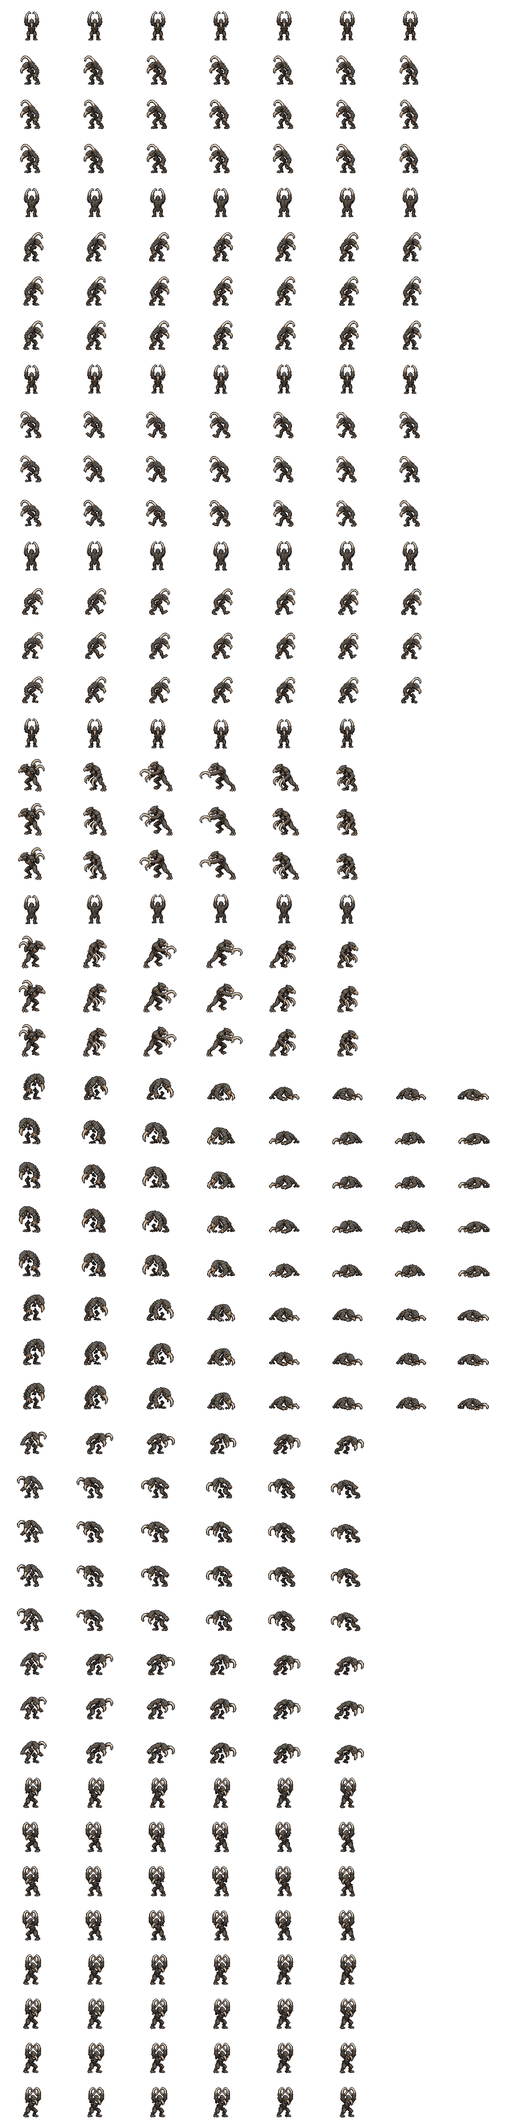
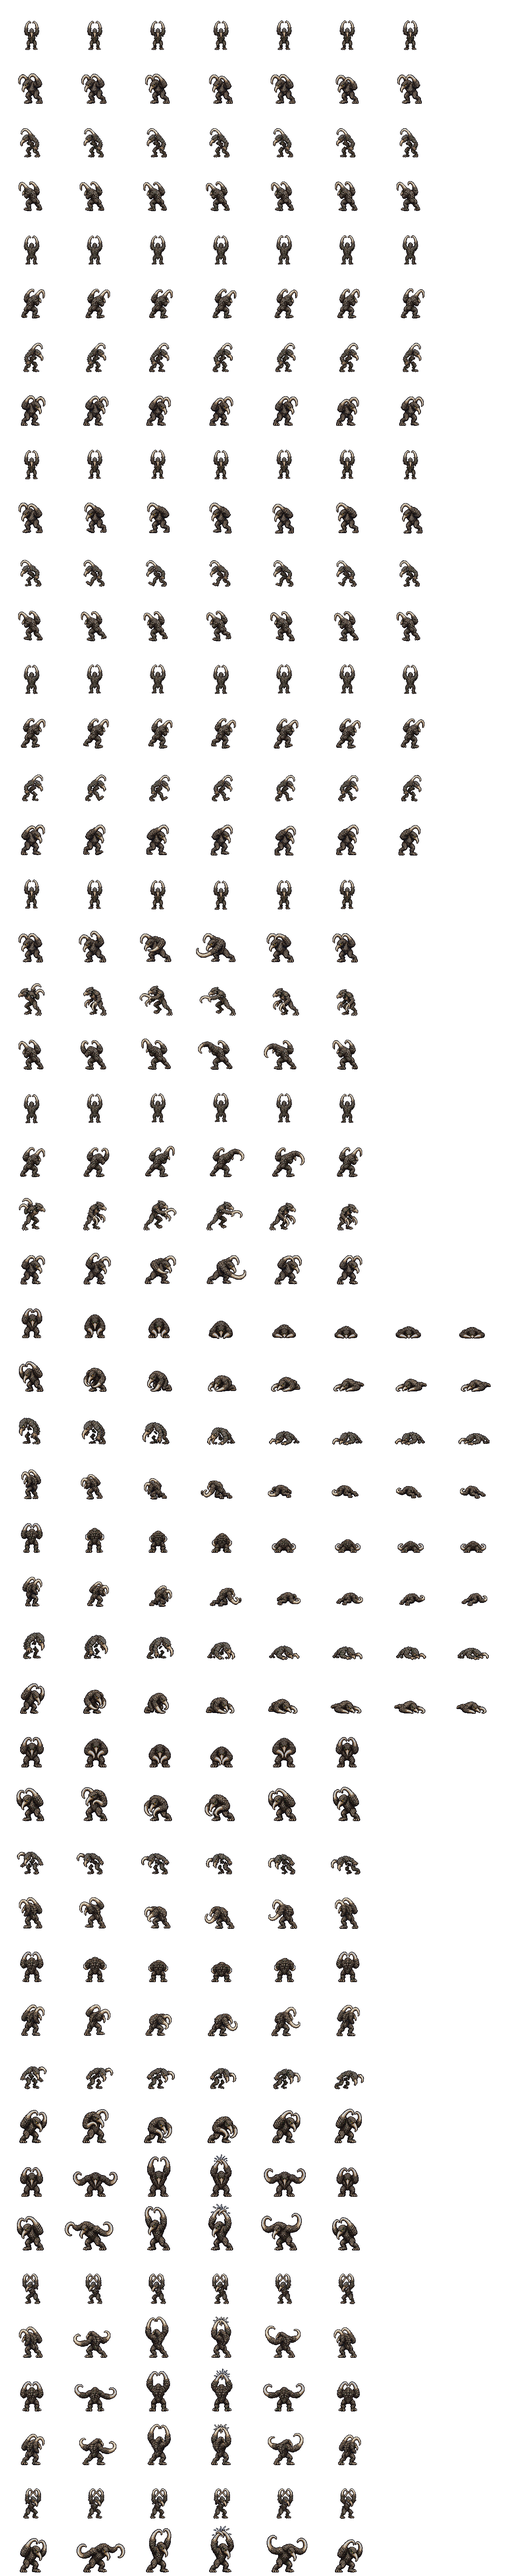
The clacker in all eight facings: the art desk's ART-42 cut onto clacker_p2 (SE and NE every row, SW and NW mirrored; S and N their clack, hurt and death)
tools/clacker-sheet.py ART42 through tools/artdesk.py (which now takes sheetrows' cut lines a page at a time): K by height
against the sheet's 74 (2.38 to 2.89), toned per channel to Griz's sheet; NE Death 4's hook tip cut from Death 5's flank (CUT42).
The cell 136 tall since (AY 126, was 112/102): the raised hooks and the clack's spark reach 118 px up; every kept frame anchor for
anchor as before. Idle frame 1 stands 74 in every facing. Its _src from the main checkout in a worktree.
On Griz's "spin up an one-at-a-time art cutter that goes until we're out" (10-22, to the lanes desk).

diff --git a/deep16/data/sprites.js b/deep16/data/sprites.js
@@ -2303,69 +2303,69 @@
 "source": "generated by Griz with Grok (2026-09-27; the side rows, the Front and Back stills) and the art desk (2026-10-17, ART-43: SE and NE every row, the fall from the front and behind), regraded to wet stone and cleaned by tools/chuul-sheet.py"
 },
 "clacker_p2": {
-"image": "art/clacker_p2.png?v=5b7af6c042",
+"image": "art/clacker_p2.png?v=b9f8a95519",
 "fw": 160,
-"fh": 112,
+"fh": 136,
 "ax": 80,
-"ay": 102,
+"ay": 126,
 "top": 74,
 "anims": {
 "idle": {
 "y": 0,
 "fw": 160,
-"fh": 112,
+"fh": 136,
 "ax": 80,
-"ay": 102,
+"ay": 126,
 "frames": 7,
 "fps": 6
 },
 "walk": {
-"y": 896,
+"y": 1088,
 "fw": 160,
-"fh": 112,
+"fh": 136,
 "ax": 80,
-"ay": 102,
+"ay": 126,
 "frames": 7,
 "fps": 9
 },
 "attack": {
-"y": 1792,
+"y": 2176,
 "fw": 160,
-"fh": 112,
+"fh": 136,
 "ax": 80,
-"ay": 102,
+"ay": 126,
 "frames": 6,
 "fps": 11
 },
 "hurt": {
-"y": 2688,
+"y": 3264,
 "fw": 160,
-"fh": 112,
+"fh": 136,
 "ax": 80,
-"ay": 102,
+"ay": 126,
 "frames": 8,
 "fps": 8
 },
 "flinch": {
-"y": 3584,
+"y": 4352,
 "fw": 160,
-"fh": 112,
+"fh": 136,
 "ax": 80,
-"ay": 102,
+"ay": 126,
 "frames": 6,
 "fps": 12
 },
 "clack": {
-"y": 4480,
+"y": 5440,
 "fw": 160,
-"fh": 112,
+"fh": 136,
 "ax": 80,
-"ay": 102,
+"ay": 126,
 "frames": 6,
 "fps": 10
 }
 },
-"source": "generated by Griz (2026-10-01, two Grok sheets), cut and snapped by tools/clacker-sheet.py"
+"source": "generated by Griz (2026-10-01, two Grok sheets), cut and snapped by tools/clacker-sheet.py; SE and NE every row and S and N their clack, hurt and death drawn by the art desk (ART-42, 10-22)"
 },
 "cloaker_p1": {
 "image": "art/cloaker_p1.png?v=029cae914e",

diff --git a/deep16/index.html b/deep16/index.html
@@ -77,7 +77,7 @@
 <script src="js/art.js?v=e1ce4cf012"></script>
 <script src="data/cavern.js?v=647c1a184a"></script>
 <script src="data/maps.js?v=971b4fe9e6"></script>
-<script src="data/sprites.js?v=4e21a0120f"></script>
+<script src="data/sprites.js?v=3fffd5eb2c"></script>
 <script src="js/sprites.js?v=132505c283"></script>
 <script src="js/save.js?v=1191d6f29a"></script>
 <script src="data/spells.js?v=b819b6e987"></script>

diff --git a/tools/clacker-sheet.py b/tools/clacker-sheet.py
@@ -33,9 +33,35 @@ import importlib.util
 spec = importlib.util.spec_from_file_location('pix', os.path.join(ROOT, 'tools', 'pixelate.py'))
 pix = importlib.util.module_from_spec(spec); spec.loader.exec_module(pix)
 
-SRC = os.path.join(ROOT, 'deep16', '_src')
+spec = importlib.util.spec_from_file_location('artdesk', os.path.join(ROOT, 'tools', 'artdesk.py'))
+AD = importlib.util.module_from_spec(spec); spec.loader.exec_module(AD)
+
+SRC = AD.src_dir(ROOT)                                  # (his sheets live in the main checkout: a worktree reads them there)
 NAME = 'clacker_p2'
-FW, FH, AX, AY = 160, 112, 80, 102
+
+# The five views (10-22, the monster cutter seat's second run): the art desk's ART-42 in deep16/_src/clacker/ART-42/ (sorted out of Fresh
+# by _src/art-desk/sort-delivery.py; its papers in _src/art-desk/received-2026-10-22-ART-42-clacker-FINAL-SHEETS/): HEAD 1 SE and HEAD 2 NE
+# on two pages each (Idle 7, Walk 7, Hook 6; Clack 6, Hurt 6, Death 8), HEAD 3 S and HEAD 5 N their Clack, Hurt and Death. Cut, scaled and
+# placed by tools/artdesk.py (by height: a diagonal's Idle between the side's and the turnaround still's; a later page by its Death 1,
+# standing, against its Idle 1; S's and N's Death 1 against the stills), toned to Griz's sheet. SE and SW, NE and NW take every row; S and N
+# their clack, flinch and hurt (the stills keep their idle, walk bob and hook dip). Hurt -> flinch (living), Death -> hurt, as his rows.
+ART42 = {
+  'H1P1': dict(file='ART-42_HEAD-1_PAGE-1.png', W=1536, text=[(15, 173, 180, 250), (15, 474, 180, 550), (15, 779, 180, 855)],
+               rows=[('idle', (0, 0, 1536, 343), (317, 343), 7), ('walk', (0, 344, 1536, 640), (614, 640), 7), ('attack', (0, 641, 1536, 939), (913, 939), 6)]),
+  'H1P2': dict(file='ART-42_HEAD-1_PAGE-2.png', W=1536, text=[(22, 196, 190, 281), (19, 505, 186, 589), (12, 790, 166, 873)],
+               rows=[('clack', (0, 0, 1536, 379), (351, 379), 6), ('flinch', (0, 380, 1536, 679), (651, 679), 6), ('hurt', (0, 680, 1536, 954), (926, 954), 8)]),
+  'H2P1': dict(file='ART-42_HEAD-2_PAGE-1.png', W=1536, text=[(7, 167, 134, 239), (7, 475, 134, 546), (7, 771, 134, 842)],
+               rows=[('idle', (0, 0, 1536, 324), (300, 324), 7), ('walk', (0, 325, 1536, 641), (617, 641), 7), ('attack', (0, 642, 1536, 945), (921, 945), 6)]),
+  'H2P2': dict(file='ART-42_HEAD-2_PAGE-2.png', W=1536, text=[(15, 234, 179, 310), (15, 520, 179, 596), (14, 819, 164, 894)],
+               rows=[('clack', (0, 0, 1536, 377), (351, 377), 6), ('flinch', (0, 378, 1536, 668), (642, 668), 6), ('hurt', (0, 669, 1536, 959), (933, 959), 8)]),
+  'H3P1': dict(file='ART-42_HEAD-3_PAGE-1.png', W=1536, text=[(20, 193, 190, 283), (19, 508, 187, 594), (8, 784, 168, 866)],
+               rows=[('clack', (0, 0, 1536, 383), (354, 383), 6), ('flinch', (0, 384, 1536, 685), (655, 685), 6), ('hurt', (0, 686, 1536, 960), (931, 960), 8)]),
+  'H5P1': dict(file='ART-42_HEAD-5_PAGE-1.png', W=1536, text=[(14, 234, 181, 311), (14, 517, 181, 594), (11, 817, 164, 892)],
+               rows=[('clack', (0, 0, 1536, 378), (351, 378), 6), ('flinch', (0, 379, 1536, 667), (640, 667), 6), ('hurt', (0, 668, 1536, 961), (934, 961), 8)]),
+}
+VIEWS42 = {'SE': ('H1P1', 'H1P2'), 'NE': ('H2P1', 'H2P2'), 'S': ('H3P1',), 'N': ('H5P1',)}
+CUT42 = {'H2P2': {'hurt': [((807, 855), (807, 897))]}}     # NE Death 4's hook tip curls into Death 5's flank: cut at the neck between
+FW, FH, AX, AY = 160, 136, 80, 126         # (112 tall and AY 102 until 10-22: ART-42's raised hooks and the clack's spark reach 118 px up)
 STAND = 72                                              # px of clacker from its feet to the top of its back, before the outline
 
 
@@ -194,6 +220,11 @@ def build():
             frames['hurt'].append(hurt_l); frames['flinch'].append(flinch_l)
     for t in CLIPPED:
         print('  CLIPPED', t)
+    d42 = AD.views(ROOT, 'clacker', 'ART-42', ART42, VIEWS42, {'side': AD.tall(idle_r[0]), 'S': AD.tall(fS), 'N': AD.tall(fN)},
+                   fit, torso_x, (FW, FH, AX, AY), tone_ref={'side': idle_r[0], 'S': fS, 'N': fN}, cuts=CUT42)   # ART-42 (10-22): the five views
+    for f, v, flip in ((7, 'SE', False), (1, 'SE', True), (5, 'NE', False), (3, 'NE', True), (0, 'S', False), (4, 'N', False)):
+        for a, fs in d42[v].items():
+            frames[a][f] = mirror(fs) if flip else fs
     return frames
 
 
@@ -203,7 +234,8 @@ def write(frames):
     meta = json.load(open(meta_p))
     for k, v in {'idle': 6, 'walk': 9, 'attack': 11, 'clack': 10, 'hurt': 8, 'flinch': 12}.items():
         meta['anims'][k]['fps'] = v
-    meta['source'] = 'generated by Griz (2026-10-01, two Grok sheets), cut and snapped by tools/clacker-sheet.py'
+    meta['source'] = ('generated by Griz (2026-10-01, two Grok sheets), cut and snapped by tools/clacker-sheet.py; SE and NE every row and '
+                      'S and N their clack, hurt and death drawn by the art desk (ART-42, 10-22)')
     json.dump(meta, open(meta_p, 'w'), indent=1)
     # kept as an indexed PNG: the colours are already the palette's, so every pixel survives exactly (index 0 the clear)
     png = os.path.join(ROOT, 'deep16', 'art', NAME + '.png')

diff --git a/tools/artdesk.py b/tools/artdesk.py
@@ -49,7 +49,7 @@ def tall(a):
     return int(ys[-1] - ys[0] + 1)
 
 
-def cut(root, sub, art, pages, chan=None, fix=None):
+def cut(root, sub, art, pages, chan=None, fix=None, cuts=None):
     """-> {L: {row: [(page image, its box, its number's x)]}}"""
     SR = _sheetrows(root)
     out = {}
@@ -60,7 +60,7 @@ def cut(root, sub, art, pages, chan=None, fix=None):
                   rows=[(r, b, l, [str(i + 1) for i in range(n)]) for r, b, l, n in s['rows']])
         if chan:
             sp['chan'] = chan
-        got = SR.cut_sheet(path, sp, fix=(fix or {}).get(L), tag=L)
+        got = SR.cut_sheet(path, sp, fix=(fix or {}).get(L), cuts=(cuts or {}).get(L), tag=L)
         lx = {r: SR.label_xs(a, b[0], b[2], l[0], l[1]) for r, b, l, _ in s['rows']}
         out[L] = {r: [(im, box, lx[r][i]) for i, (_, im, box) in enumerate(frs)] for r, frs in got.items()}
     return out
@@ -116,10 +116,11 @@ def tones(cuts, view_pages, K, fit, ref):
     return T
 
 
-def views(root, sub, art, pages, view_pages, idle_h, fit, torso_x, cell, chan=None, fix=None, tone_ref=None):
-    """tone_ref: the sheet's own frames to tone each page to (see `tones`), or None to cut the pages' colour as drawn"""
+def views(root, sub, art, pages, view_pages, idle_h, fit, torso_x, cell, chan=None, fix=None, tone_ref=None, cuts=None):
+    """tone_ref: the sheet's own frames to tone each page to (see `tones`), or None to cut the pages' colour as drawn; fix and cuts:
+    sheetrows' own, a page at a time ({L: {row: [...]}}: a loose part's box and its frame, a line cleared where two frames touch)"""
     FW, FH, AX, AY = cell
-    cuts = cut(root, sub, art, pages, chan, fix)
+    cuts = cut(root, sub, art, pages, chan, fix, cuts)          # (the cut lines in, the cut frames out)
     K = scales(cuts, view_pages, idle_h, fit)
     print('  %s K: ' % art + ', '.join('%s %.2f' % (L, K[L]) for L in pages) +
           '; the sheet stands %.0f side-on, %.0f from the front, %.0f from behind' % (idle_h['side'], idle_h['S'], idle_h['N']))
